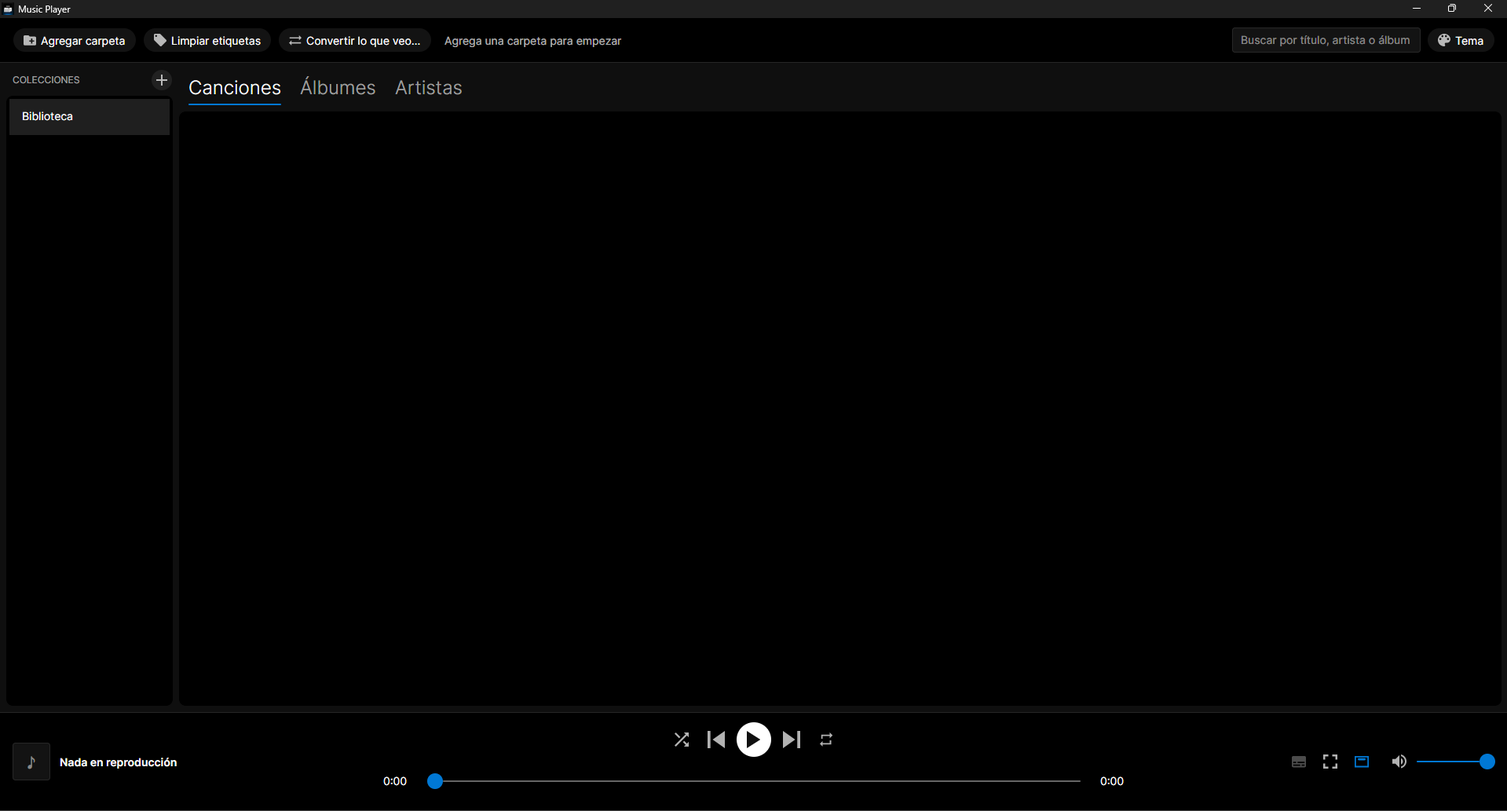
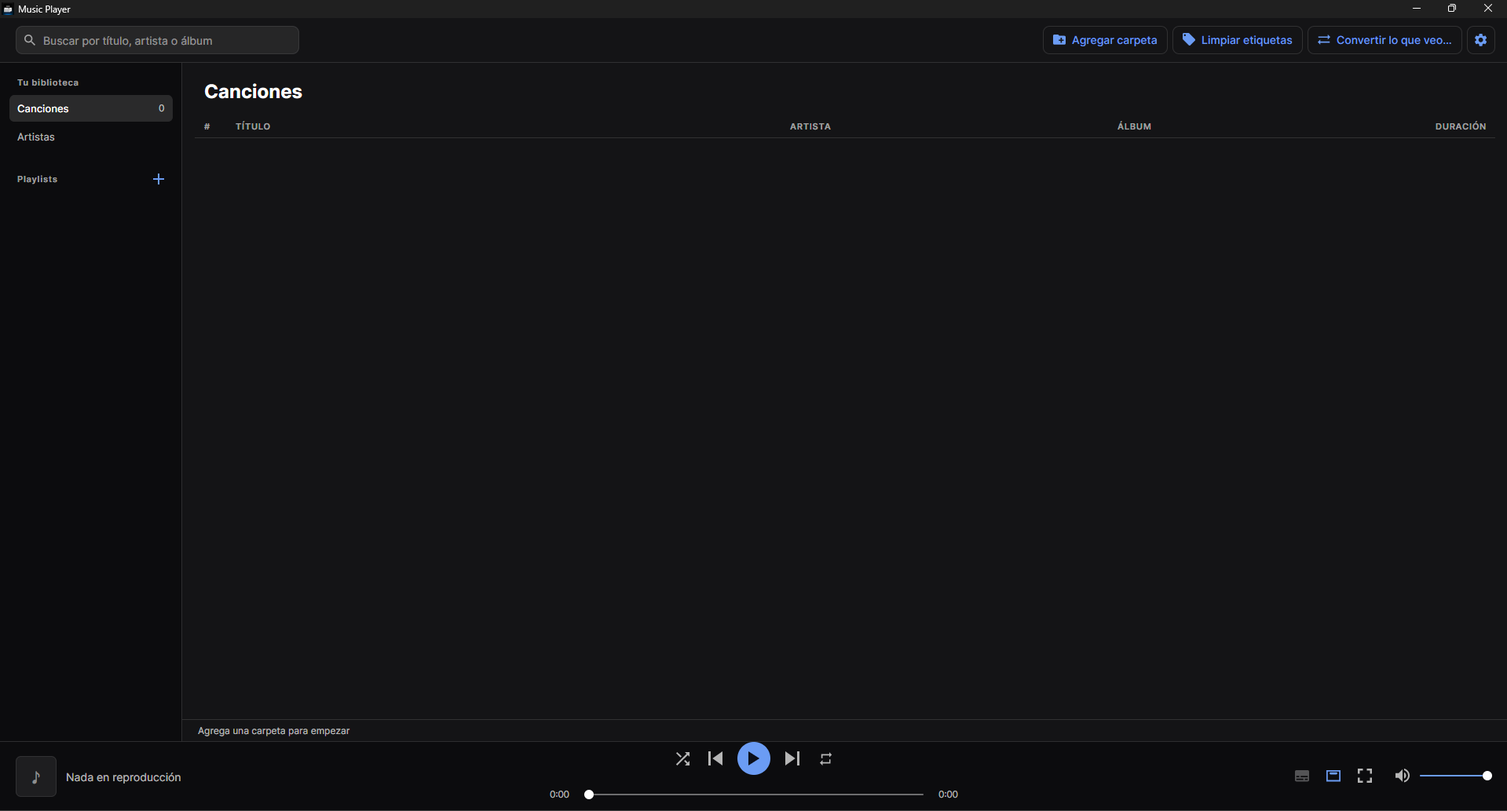
docs: principios de diseño revisados y captura con el rediseño

diff --git a/docs/diseño.md b/docs/diseño.md
@@ -2,81 +2,125 @@
 
 Explora los principios fundamentales que guían el diseño.
 
-Los diseños más exitosos y duraderos se basan en una comprensión profunda de cómo las personas piensan, sienten e interactúan con el mundo. Los principios aquí reflejan esta realidad y constituyen la base para la orientación a lo largo de las Directrices de Interfaz Humana. No hay una única forma correcta de aplicar estos principios. En cambio, son herramientas para ayudarte a sopesar prioridades en competencia y tomar decisiones clave en el camino hacia un gran diseño.
+Los diseños más exitosos y duraderos se basan en una comprensión profunda de cómo las personas piensan, sienten e interactúan con el mundo. Los principios aquí reflejan esta realidad y constituyen la base para la orientación a lo largo de las Directrices de Interfaz Humana (Human Interface Guidelines, La guía HIG incluye recomendaciones y mejores prácticas que pueden ayudarte a diseñar una excelente experiencia para cualquier plataforma.). No hay una única forma correcta de aplicar estos principios. En cambio, son herramientas para ayudar a sopesar prioridades en competencia y tomar decisiones clave en el camino hacia un gran diseño.
 
-## Resumen
-
-- **Propósito.** Haz algo significativo. El diseño empieza con la intención. Identifica qué es lo que más importa para las personas para las que diseñas. Concéntrate en hacer que esas cosas sean geniales, y crearás una experiencia que la gente realmente valore.
-- **Agencia.** Deja que la gente haga las cosas a su manera. Existe una interfaz para ayudar a las personas a alcanzar sus objetivos. Dales libertad para actuar, mantenles informados de lo que está ocurriendo y facilita la recuperación de los errores.
-- **Responsabilidad.** Actúa en el mejor interés de la gente. Tu trabajo tiene un impacto en la vida de las personas. Gana su confianza priorizando la seguridad y la privacidad, y siendo transparente sobre lo que hace tu producto y por qué.
-- **Familiaridad.** Construye sobre lo que la gente sabe. Recurrir a conceptos que la gente ya entiende les ayuda a sentirse inmediatamente como en casa. Basa tu experiencia en patrones físicos y digitales establecidos y aplícalos de forma constante a lo largo de tu diseño.
-- **Flexibilidad.** Adáptate a contextos y necesidades diversas. La gente usa tu software de formas tan únicas como ellas. Cuanto más reconozca esto tu diseño, más gente se siente bienvenida a usarlo. Ten en cuenta experiencias distintas a las tuyas e intenta apoyar tantos dispositivos, tipos de interacción y perspectivas como sea posible.
-- **Simplicidad.** Sé claro y directo. Una experiencia bien diseñada elimina lo innecesario, y cada elemento gana su lugar. Cuando tu interfaz está lógicamente organizada y es sencilla de navegar, es más fácil hacer las cosas.
-- **Oficios.** Cuida cada detalle. Tu diseño refleja cuánto te importa. Demuestra tu compromiso por ofrecer la mejor experiencia posible a las personas. Tómate el tiempo para hacer bien el trabajo.
-- **Delicia.** Que sea humano. La gente recuerda cómo se siente un producto. Piensa en las emociones que son adecuadas para tu experiencia y trata de transmitirlas de una manera satisfactoria, enriquecedora y disfrutable de usar.
+- **Propósito.** Crea algo significativo. El diseño comienza con una intención. Identifica qué es lo más importante para las personas para quienes estás diseñando. Concéntrate en hacer que esas cosas sean excelentes y crearás una experiencia que la gente realmente valore.
+- **Agencia.** Deja que las personas hagan las cosas a su manera. Una interfaz existe para ayudar a las personas a alcanzar sus metas. Ofréceles la libertad de actuar, manténlas informadas sobre lo que está sucediendo y facilita que se recuperen de los errores.
+- **Responsabilidad.** Actúa en beneficio de las personas. Tu trabajo tiene un impacto en la vida de las personas. Gánate su confianza dando prioridad a la seguridad y la privacidad, y siendo transparente sobre lo que hace tu producto y por qué.
+- **Familiaridad.** Aprovecha lo que la gente ya conoce. Basarte en conceptos que la gente ya entiende les ayuda a sentirse inmediatamente a gusto. Asienta tu experiencia en patrones físicos y digitales ya establecidos y aplícalos de manera consistente en todo tu diseño.
+- **Flexibilidad.** Adáptate a diversos contextos y necesidades. Las personas usan tu software de formas tan únicas como ellas mismas. Cuanto más tenga en cuenta tu diseño este hecho, más se sentirán las personas invitadas a usarlo. Ten en cuenta experiencias distintas a la tuya e intenta dar soporte a la mayor cantidad posible de dispositivos, tipos de interacción y perspectivas.
+- **Simplicidad.** Sé claro y directo. Una experiencia bien diseñada elimina lo innecesario, y cada elemento tiene su lugar justificado. Cuando tu interfaz está organizada de manera lógica y es fácil de navegar, resulta más sencillo realizar las tareas.
+- **Artesanía.** Cuida cada detalle. Tu diseño es un reflejo de lo mucho que te importa. Demuestra tu compromiso por brindar la mejor experiencia posible a las personas. Tómate el tiempo necesario para hacer bien el trabajo.
+- **Encanto.** Dale un toque humano. Las personas recuerdan cómo las hace sentir un producto. Piensa en las emociones que mejor se adapten a tu experiencia y busca transmitirlas de una manera que resulte satisfactoria, enriquecedora y que sea un placer usarla.
+- **Accesibilidad.** Las interfaces de usuario accesibles permiten que todos disfruten de una excelente experiencia con tu app.
+- **Color.** El uso acertado del color puede mejorar la comunicación, evocar tu marca, brindar continuidad visual, transmitir estado y retroalimentación, y ayudar a las personas a comprender la información.
+- **Modo oscuro.** El modo oscuro es una configuración de apariencia para todo el sistema que utiliza una paleta de colores oscuros para ofrecer una experiencia visual cómoda, adaptada a entornos con poca luz.
 
 ## Propósito
 
-**Crea valor.** Los mejores diseños reflejan una orientación constante hacia lo que hace que un producto sea realmente útil. En cada etapa del desarrollo, pregunta para qué sirve tu producto y si el diseño cumple ese propósito.
+**Crear valor.** Los mejores diseños reflejan una orientación constante hacia lo que hace que un producto sea verdaderamente útil. En cada etapa del desarrollo, pregúntate para qué sirve tu producto y si el diseño cumple con ese propósito.
 
-**Mantente concentrado.** Prioriza las funciones más importantes de tu app alineándote con cómo la gente quiere usarla, y céntrate en hacer que esas funciones sean realmente excelentes. Un producto con un uso claro es más eficaz para ayudar a las personas a alcanzar sus objetivos.
+**Mantén el enfoque.** Prioriza las funciones más importantes de tu aplicación alineándolas con la forma en que las personas quieren usarla, y concéntrate en hacer que esas funciones sean realmente excelentes. Un producto con un uso claro es más eficaz para ayudar a las personas a alcanzar sus metas.
 
-**Busca nuevas formas de resolver el problema.** Investiga las soluciones existentes y evita recrearlas. Define qué diferencia a tu producto y pregúntate cómo tu diseño puede reflejar eso.
+**Encuentra nuevas formas de resolver el problema.** Investiga las soluciones existentes y evita recrearlas. Define qué distingue a tu producto y pregúntate cómo tu diseño puede reflejar eso.
 
 ## Agencia
 
-**No te metas.** La gente usa tu producto para hacer las cosas. A menudo, la mejor manera de ayudarles a hacerlo es llevarlos directamente a la tarea o al contenido en cuestión. Los mejores diseños son discretos y están presentes cuando la gente los necesita.
+**No te interpongas.** Las personas usan tu producto para realizar tareas. A menudo, la mejor manera de ayudarlas a hacerlo es llevarlas directamente a la tarea o al contenido en cuestión. Los mejores diseños son discretos y están presentes cuando las personas los necesitan.
 
-**Da a la gente la libertad de explorar.** Déjales moverse por tu interfaz y acceder a funciones sin estar atados a flujos o modos específicos. Cuando sea necesario un flujo guiado, facilita que se salten o escapen para que la gente pueda llegar rápidamente a la experiencia principal.
+**Ofrece a las personas la libertad de explorar.** Permíteles moverse por tu interfaz y acceder a las funciones sin quedar limitadas a flujos o modos específicos. Cuando sea necesario un flujo guiado, haz que sea fácil saltárselo o salir de él para que los usuarios puedan llegar rápidamente a la experiencia principal.
 
-**Ayuda a las personas a recuperarse de los errores.** Cuando la gente sabe que puede revertir una acción o volver a un estado anterior, se siente libre de explorar, y esa libertad hace que tu interfaz sea más acogedora. Incorpora el perdón en tu diseño y hazlo fácil. Recuperarse de lo inesperado no debería costar tiempo ni trabajo a las personas.
+**Ayuda a los usuarios a recuperarse de los errores.** Cuando los usuarios saben que pueden revertir una acción o regresar a un estado anterior, se sienten libres para explorar, y esa libertad hace que tu interfaz sea más atractiva. Incorpora la tolerancia en tu diseño y haz que sea fácil. Recuperarse de lo inesperado no debería costarles tiempo ni trabajo a los usuarios.
 
 ## Responsabilidad
 
-**Sé totalmente transparente sobre lo que hace tu producto y por qué.** Tienes la oportunidad de construir una relación con alguien desde su primera interacción. Asegúrate de que las intenciones de tu app sean claras desde el principio. Proporciona una justificación clara al pedir permiso y, al recopilar datos, sé claro sobre qué recopilas y cómo lo usas.
+**Sé totalmente transparente sobre lo que hace tu producto y por qué.** Tienes la oportunidad de construir una relación con alguien desde su primera interacción. Asegúrate de que las intenciones de tu aplicación queden claras desde el principio. Explica claramente los motivos al solicitar permisos y, al recopilar datos, sé claro sobre qué información recopilas y cómo la utilizas.
 
-**Mantener la información de las personas a salvo.** La gente confía en que mantengas la integridad de sus datos. Solo recoge lo que tu producto necesita para funcionar y trátalo con cuidado. Anticipa las formas en que podría ser mal utilizado o causar daño, y establece protecciones para prevenir abusos y consecuencias no deseadas.
+**Mantén segura la información de las personas.** La gente confía en que mantendrás la integridad de sus datos. Recolecta solo lo que tu producto necesita para funcionar y maneja esa información con cuidado. Anticipa las formas en que podría usarse indebidamente o causar daño, e implementa medidas de protección para prevenir el abuso y las consecuencias no deseadas.
 
 ## Familiaridad
 
-**Utiliza conceptos que la gente conozca.** La gente aporta conocimientos del mundo real y de otros programas a cada nueva experiencia. Aprovecha ambos para que tu interfaz se sienta familiar e intuitiva.
+**Utiliza conceptos que la gente conozca.** Las personas aportan su conocimiento del mundo real y de otros programas a cada nueva experiencia. Aprovecha ambos para que tu interfaz resulte familiar e intuitiva.
 
-**Mantén las imágenes e interacciones constantes.** Una vez que establezcas un comportamiento o apariencia para un elemento, aplícalo a lo largo de tu diseño. La constancia ayuda a que las personas aprendan más rápido y les da confianza en que las nuevas interacciones funcionarán como esperan.
+**Mantén la coherencia en los elementos visuales y las interacciones.** Una vez que establezcas un comportamiento o una apariencia para un elemento, aplícalo en todo tu diseño. La coherencia ayuda a las personas a aprender más rápido y les da la confianza de que las nuevas interacciones funcionarán como esperan.
 
-**Proporciona una opinión clara.** Da señales claras sobre lo que está pasando mientras usan tu app. Mostrar cuándo hay controles disponibles, indicar cuándo cambia el contenido y usar patrones del sistema para mostrar alertas y ofrecer opciones. Un feedback constante ayuda a mantener a las personas informadas y en control.
+**Proporciona retroalimentación clara.** Ofrece a los usuarios señales claras sobre lo que está sucediendo mientras usan tu aplicación. Muestra cuándo los controles están disponibles, indica cuándo cambia el contenido y utiliza patrones del sistema para mostrar alertas y ofrecer opciones. Una retroalimentación consistente ayuda a mantener a los usuarios informados y en control.
 
 ## Flexibilidad
 
-**Diseño para todos.** Las personas se empoderan con productos diseñados pensando en ellas. Piensa en la diversidad de personas que pueden encontrarse con tu diseño y ten en cuenta la variedad de sus experiencias, perspectivas y necesidades. Trata la accesibilidad como una prioridad desde el principio. Diseña de forma inclusiva para llegar al público más amplio posible y crear una mejor experiencia para todos.
+**Diseña para todos.** Los productos diseñados pensando en las personas les dan más autonomía. Piensa en la diversidad de personas que podrían encontrarse con tu diseño y toma en cuenta la variedad de sus experiencias, perspectivas y necesidades. Considera la accesibilidad como una prioridad desde el principio. Diseña de manera inclusiva para llegar a la audiencia más amplia posible y crear una mejor experiencia para todos.
 
-**Preserva el contexto de una persona.** Ayuda a que la gente se sienta como en casa mientras tu diseño se adapta a diferentes plataformas y configuraciones. Mantén el contenido y los controles en posiciones consistentes y predecibles, y usa animaciones naturales para facilitar las transiciones.
+**Mantén el contexto de cada persona.** Ayuda a las personas a sentirse cómodas al ver que tu diseño se adapta a diferentes plataformas y configuraciones. Mantén el contenido y los controles en posiciones consistentes y predecibles, y utiliza animaciones naturales para facilitar las transiciones.
 
-**Considera una variedad de métodos de entrada.** Las personas interactúan con sus dispositivos de diferentes maneras. Diseñar para la mayor cantidad posible de entradas — incluyendo voz, táctil, teclado y más — significa que más personas pueden usar tu producto de la manera que mejor les funcione.
+**Toma en cuenta una variedad de métodos de entrada.** Las personas interactúan con sus dispositivos de diferentes maneras. Diseñar para la mayor cantidad posible de métodos de entrada, el tacto, el teclado y más— significa que más personas podrán usar tu producto de la manera que mejor les funcione.
 
-**Aborda cada plataforma con intención.** Tu software debe sentirse pulido y cómodo dondequiera que funcione. Ofrece a cada plataforma a la que apoyas el mismo nivel de atención.
+**Aborda cada plataforma con intención.** Tu software debe sentirse pulido y a gusto dondequiera que se ejecute. Dale a cada plataforma que admitas el mismo nivel de atención.
 
 ## Simplicidad
 
-**Incluye solo lo necesario.** La simplicidad no es minimalismo. Busca una experiencia enfocada y útil que mantenga lo importante cerca y deje que las demás se desaparten.
+**Incluye solo lo necesario.** La simplicidad no es minimalismo. Busca una experiencia enfocada y útil que mantenga lo importante a la vista y deje de lado lo demás.
 
-**Sé conciso.** Cuando encuentras la forma más sencilla de decir algo, suele ser la más universal y la más útil. Elige exactamente las palabras que necesitas para transmitir un concepto o etiquetar un control.
+**Sé conciso.** Cuando encuentras la forma más sencilla de decir algo, suele ser la más universal y la más útil. Elige exactamente las palabras que necesitas para transmitir un concepto o nombrar un control.
 
-**Establece una jerarquía.** Cuando la forma y la función son evidentes, las personas saben cómo alcanzar un resultado deseado. Prioriza controles reconocibles y una estructura coherente que ayude a las personas a entender dónde están y qué viene después.
+**Establece una jerarquía.** Cuando la forma y la función son evidentes, las personas saben cómo alcanzar el resultado deseado. Prioriza los controles reconocibles y una estructura coherente que ayude a las personas a entender dónde se encuentran y qué sigue después.
 
-## Oficios
+## Artesanía
 
-**La calidad marca el tono.** Cada elemento de tu diseño muestra a la gente cuánto te importa. Sé deliberado en cada decisión y busca visuales impresionantes, animaciones fluidas, redacción precisa y un audio cuidadoso.
+**La calidad marca la pauta.** Cada elemento de tu diseño le muestra a la gente cuánto te importa. Toma cada decisión con cuidado y esfuérzate por lograr imágenes impresionantes, animaciones fluidas, una redacción precisa y un audio bien pensado.
 
-**Experimenta e itera.** Prototipa pronto, prueba nuevos enfoques y estate dispuesto a descartar lo que no funcione. Pon un listón alto para cada función, refíllalo y vuelve a intentarlo. Prueba tu producto en entornos reales para asegurarte de que es duradero, fiable y de alto rendimiento.
+**Experimenta y repite el proceso.** Crea prototipos desde el principio, prueba nuevos enfoques y estate dispuesto a descartar lo que no funcione. Establece un nivel alto para cada función, perfecciónala y vuelve a intentarlo. Prueba tu producto en entornos reales para asegurarte de que sea duradero, confiable y de alto rendimiento.
 
-**Mantén tu oficio.** El envío no es la línea de meta. Mantén tu interfaz actualizada con las últimas capacidades de la plataforma y patrones de diseño, y mantén el listón de calidad alto. El diseño es un compromiso continuo.
+**Mantén tu nivel de excelencia.** El lanzamiento no es la meta final. Mantén tu interfaz al día con las últimas capacidades de la plataforma y los patrones de diseño, y mantén altos los estándares de calidad. El diseño es un compromiso continuo.
 
-## Delicia
+## Encanto
 
-**Identifica la emoción que quieres inspirar.** No todo el software se siente igual de usar. Una app de fitness podría dar energía; una app de meditación podría calmar; un partido podría emocionar. Conoce la sensación que quieres evocar y deja que moldee tu diseño.
+**Identifica la emoción que quieres inspirar.** No todos los programas se sienten igual al usarlos. Una app de ejercicio físico puede dar energía; una de meditación, calma; un juego, emoción. Identifica la sensación que quieres evocar y deja que esa sensación dé forma a tu diseño.
 
-**Crea momentos definitorios.** Cada interacción es una oportunidad para mostrar lo que representa tu software. Desde una simple pulsación de botón hasta un mensaje de error, considera si cada momento es una oportunidad para añadir un toque de carácter que refleje el espíritu de tu diseño.
+**Crea momentos decisivos.** Cada interacción es una oportunidad para mostrar lo que representa tu software. Desde una simple pulsación de botón hasta un mensaje de error, considera si cada momento es una oportunidad para agregar un toque de personalidad que refleje el espíritu de tu diseño.
 
-**No confundas la alegría con la decoración.** Ten en cuenta que la gente intenta cumplir una tarea, así que no dejes que la búsqueda del placer por el placer en sí mismo interfiera con el propósito principal de tu producto. Piensa en tu estética general: algunos diseños se benefician de un toque práctico cuidadosamente pensado, mientras que otros pueden preferir algo de fantasía. Experimenta para encontrar el equilibrio adecuado.
+**No confundas el deleite con la decoración.** Ten en cuenta que las personas están tratando de realizar una tarea, así que no permitas que la búsqueda del deleite por sí misma se interponga en el propósito central de tu producto. Piensa en tu estética general: algunos diseños se benefician de un toque práctico cuidadosamente pensado, mientras que otros tal vez prefieran algo de fantasía. Experimenta para encontrar el equilibrio adecuado.
 
-**Considera el conjunto.** El placer surge como la suma de la consideración que pones en tu producto. Es la culminación de todo lo que una persona experimenta al usarla: la libertad de actuar, la seguridad para explorar, la comodidad de metáforas familiares y la flexibilidad para pasar de un contexto a otro. Cuando diseñas con intención, enfoque y cuidado, el resultado es un producto que la gente encuentra naturalmente encantador.
+**Considera el conjunto.** El deleite surge como la suma de la consideración que le pones a tu producto. Es la culminación de todo lo que una persona experimenta al usarlo: la libertad para actuar, la seguridad para explorar, la comodidad de las metáforas familiares y la flexibilidad para pasar de un contexto a otro. Cuando diseñas con intención, enfoque y cuidado, el resultado es un producto que a la gente le resulta naturalmente encantador.
+
+## Accesibilidad
+
+**Cuando diseñas pensando en la accesibilidad.** llegas a un público más amplio y creas una experiencia más inclusiva. Una interfaz accesible permite que las personas disfruten de tu app sin importar sus capacidades o la forma en que usen sus dispositivos. La accesibilidad hace que la información y las interacciones estén al alcance de todos. Una interfaz accesible es:
+
+**Intuitiva.** Tu interfaz utiliza interacciones familiares y consistentes que facilitan la realización de las tareas.
+
+**Adaptable.** Tu interfaz se adapta a la forma en que las personas desean usar su dispositivo, ya sea al admitir las funciones de accesibilidad del sistema o al permitir que las personas personalicen la configuración.
+
+**Esfuérzate por cumplir con los estándares mínimos de contraste de color.** Para garantizar que toda la información de tu aplicación sea legible, es importante que haya suficiente contraste entre el texto e íconos en primer plano y los colores de fondo. Dos estándares de medición populares para el contraste de color son las Pautas de Accesibilidad al Contenido en la Web (WCAG) y el Algoritmo de Contraste Perceptual Accesible (APCA). Usa calculadoras de contraste estándar para asegurarte de que tu interfaz de usuario cumpla con los niveles aceptables. Utiliza los valores del Nivel AA de las WCAG como guía para determinar si los colores de tu app tienen un contraste aceptable. Si tu app no ofrece este contraste mínimo de forma predeterminada, asegúrate de que, al menos, ofrezca una combinación de colores con mayor contraste cuando la configuración del sistema «Aumentar el contraste» esté activada. Si tu app es compatible con el modo oscuro, asegúrate de verificar el contraste mínimo tanto en el aspecto claro como en el oscuro.
+
+**Espacio de separación alrededor de los bordes visibles del elemento funcionan bien.** Considera que el espaciado entre los controles es tan importante como su tamaño. Incluye suficiente espacio de separación entre los elementos para reducir la probabilidad de que alguien toque el control equivocado.
+
+## Color
+
+**El sistema define colores que se ven bien en diversos fondos y modos de apariencia.** Puede adaptarse automáticamente a la configuración de intensidad y accesibilidad. Usar los colores del sistema es una forma práctica de hacer que la experiencia se sienta como en casa en el dispositivo.
+
+**colores personalizados.** Quizás también quieras usar colores personalizados para mejorar la experiencia visual de tu app y expresar su personalidad única. Las siguientes pautas pueden ayudarte a usar el color de manera que la gente lo aprecie, sin importar si usas colores definidos por el sistema o colores personalizados.
+
+**Prácticas recomendadas.** 
+- Evita usar el mismo color para indicar cosas diferentes. Usa el color de manera consistente en toda tu interfaz, especialmente cuando lo utilices para comunicar información como el estado o la interactividad. Por ejemplo, si usas el color de tu marca para indicar que un botón sin borde es interactivo, usar el mismo color o uno similar para dar estilo a texto no interactivo puede resultar confuso.
+
+- Asegúrate de que todos los colores de tu aplicación se vean bien en los modos claro, oscuro y de contraste aumentado. Asi como iOS, iPadOS, macOS y tvOS ofrecen configuraciones de apariencia tanto clara como oscura. Los colores del sistema varían sutilmente según la apariencia del sistema, ajustándose para garantizar una diferenciación de colores y un contraste adecuados para el texto, los símbolos y otros elementos. Cuando la configuración de «Aumentar contraste» está activada, las diferencias de color se vuelven mucho más evidentes. Siempre que sea posible, utiliza los colores del sistema, que ya definen variantes para todos estos contextos. Si defines un color personalizado, asegúrate de proporcionar variantes claras y oscuras, así como una opción de contraste aumentado para cada variante que ofrezca un nivel significativamente mayor de diferenciación visual. Incluso si tu app se lanza con un solo modo de apariencia, proporciona colores claros y oscuros para admitir la adaptabilidad de estos contextos.
+
+- Prueba la combinación de colores de tu app en diversas condiciones de iluminación. Los colores pueden verse diferentes cuando miras tu app al aire libre en un día soleado o con poca luz. En entornos luminosos, los colores se ven más oscuros y apagados. En entornos oscuros, los colores se ven brillantes y saturados. Ajusta los colores de la app para ofrecer una experiencia visual óptima en la mayoría de los casos de uso.
+
+- Ten en cuenta cómo los elementos gráficos y la translucidez afectan a los colores cercanos. Las variaciones en los elementos gráficos a veces justifican cambios en los colores cercanos para mantener la continuidad visual y evitar que los elementos de la interfaz resulten demasiado llamativos o, por el contrario, pasen desapercibidos. Los mapas, por ejemplo, muestran una combinación de colores claros cuando están en modo mapa, pero cambian a una combinación de colores oscuros cuando están en modo satélite. Los colores también pueden verse diferentes cuando se colocan detrás de un elemento translúcido, como una barra de herramientas, o se aplican a él.
+
+- Si tu aplicación permite a los usuarios elegir colores, utiliza preferentemente los controles de color que ofrece el sistema, siempre que estén disponibles. El uso de los selectores de color integrados brinda una experiencia de usuario consistente, además de permitir a los usuarios guardar un conjunto de colores a los que pueden acceder desde cualquier aplicación.
+
+- Evita usar colores similares en las etiquetas de los controles si tu app tiene un fondo colorido. Si bien el color puede hacer que las apps sean más atractivas visualmente, divertidas o que reflejen mejor tu marca, un exceso de color puede resultar abrumador y dificultar la lectura de las etiquetas de los controles. Si tu app cuenta con fondos coloridos o contenido visualmente rico, opta por una apariencia monocromática para las barras de herramientas y las barras de pestañas, o elige un color de acento que se diferencie lo suficiente visualmente. Por el contrario, en apps con contenido o fondos principalmente monocromáticos, elegir el color de tu marca como color de acento de la app puede ser una forma efectiva de personalizar la experiencia de la app.
+
+- Presta atención a la ubicación de los colores en la capa de contenido. Asegúrate de que tu interfaz mantenga un contraste suficiente evitando, siempre que sea posible, que se superpongan colores similares en la capa de contenido y en los controles. Aunque el contenido colorido pueda desplazarse de forma intermitente por debajo de los controles, asegúrate de que su estado predeterminado o de reposo —como la parte superior de una pantalla con contenido desplazable— mantenga una legibilidad clara.
+
+## Modo oscuro
+Es bastante común que por lo general los usuarios suelen elegir el Modo oscuro como estilo predeterminado de la interfaz y, por lo general, esperan que todas las aplicaciones respeten su preferencia. En el Modo oscuro, el sistema utiliza una paleta de colores oscuros para todas las pantallas, vistas, menús y controles, y también puede emplear un mayor contraste perceptual para que el contenido en primer plano resalte sobre los fondos más oscuros.
+
+**Prácticas recomendadas.**
+- Evita ofrecer una configuración de apariencia específica para la aplicación. Una opción de modo de apariencia específica para la aplicación genera más trabajo para los usuarios, ya que tienen que ajustar más de una configuración para lograr la apariencia que desean. Peor aún, podrían pensar que tu aplicación no funciona correctamente porque no responde a su elección de apariencia a nivel del sistema.
+
+- Asegúrate de que tu app se vea bien en ambos modos de apariencia. Además de usar un modo u otro, los usuarios pueden elegir la configuración de apariencia «Automática», que alterna entre las apariencias clara y oscura a medida que cambian las condiciones a lo largo del día, posiblemente mientras tu app está en ejecución.
+
+- Prueba tu contenido para asegurarte de que siga siendo fácilmente legible en ambos modos de apariencia. Por ejemplo, en el modo oscuro con las opciones «Aumentar contraste» y «Reducir transparencia» activadas (tanto por separado como juntas), es posible que encuentres casos en los que el texto oscuro sea menos legible cuando se encuentra sobre un fondo oscuro. También podrías notar que al activar «Aumentar contraste» en el modo oscuro se reduzca el contraste visual entre el texto oscuro y un fondo oscuro. Aunque las personas con buena vista aún puedan leer texto con menor contraste, dicho texto podría resultar ilegible para muchos. Para obtener orientación, consulta Accesibilidad.
